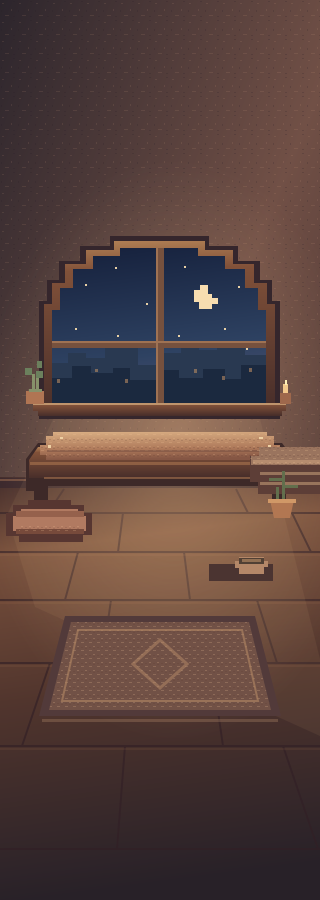
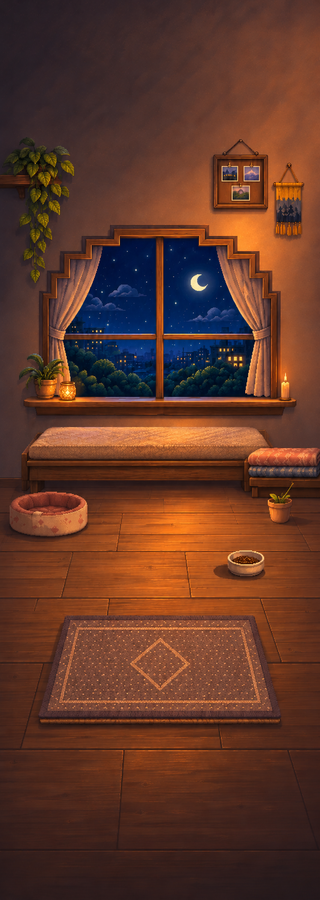
Refine the portrait companion room
Refs #79

diff --git a/src/game/CatRoomScene.ts b/src/game/CatRoomScene.ts
@@ -1464,7 +1464,7 @@ export class CatRoomScene extends Phaser.Scene {
 
   private createPlantLeaf() {
     this.plantLeaf = this.add
-      .image(this.portrait ? 568 : PLANT_LEAF_PIVOT_X, this.portrait ? 211 : PLANT_LEAF_PIVOT_Y, "window-room-plant-leaf")
+      .image(this.portrait ? 586 : PLANT_LEAF_PIVOT_X, this.portrait ? 213 : PLANT_LEAF_PIVOT_Y, "window-room-plant-leaf")
       .setOrigin(43 / 47, 15 / 24)
       .setScale(this.portrait ? PORTRAIT_WORLD_SCALE_X : 1, 1)
       .setDepth(6);

diff --git a/artifacts/art/sources/portrait-room-v2.md b/artifacts/art/sources/portrait-room-v2.md
@@ -1,0 +1,15 @@
+# Portrait window room v2
+
+Generated on 2026-11-09 with built-in ImageGen in the project owner's Codex workspace. The tool did not expose a per-generation model version.
+
[1 lines of base64/hex data omitted]
+
+Walter accepted the revised artwork for internal use on 2026-11-10 after reviewing the 390 × 844 browser capture. The project-wide distribution review in Issue #61 is pending.
+
+## First pass
+
+Use case: style-transfer. Deliver one opaque portrait background plate for an existing mobile companion app. Reference 1 (portrait) is the exact layout and geometry to paint over. Reference 2 (wide) is the finished original art; bring its hand-crafted, detailed pixel art, material rendering, and warm light into every region of the portrait. Treat this as the same room seen in a deliberately composed portrait frame. Preserve the first reference's very tall 320:900 aspect ratio, entire composition, camera, and precise locations, silhouettes, widths and heights of the arched window, window sill, full bench seat surface and front, shallow round cat bed at left, folded blanket ledge at right, small plant near the blanket, bowl on the floor and rug. No stretching of wide reference. Paint directly over the vertical reference with no overall reframing or zoom. Layout checkpoints as fractions of the whole canvas: window arch starts at y26%, sill y45–46%, bench seat y48–51% at x12–87%, front y51–54%, right blanket ledge y50–55% at x78–100% with an unobstructed flat top, cat bed y55–60% at x2–28% with a low rounded rim; plant pot at y56–58% x85–92%; small bowl at y62–64% x73–84%; rug y69–80%. These positions are fixed because a separate animated cat sits and walks exactly on those surfaces. Match the wide reference's small crisp pixel clusters, color transitions built with pixels, dark blue starry night with distant warm windows and trees, golden light falloff, textured wood floor with staggered boards, softly woven fabrics, fabric folds and cast shadows, tiny woven seams, lovely wood grain, quiet shadow details at the side. You may dress the high blank wall gently with soft warm side light and a tiny framed ornament, and add tied-back cloth at the edges of the window while preserving window size and view. Keep center seat and floor free of objects, quiet contrast where the sprite overlays, top of bed and blanket unobstructed. Allow clear floor on both bottom corners for icons. Palette of rich warm browns and muted amber with deep cool blues, same original spirit. Retain fine manual pixel marks across the scene, including the upper wall, with no flat placeholder shapes, no perspective jump, no vector outlines or heavy black contour. No cat, no people, no letters, no type, no icons, no UI, no border, no duplicated panels.
+
+## Blanket and plant revision
+
+Use case: precise-object-edit. Make a tiny production revision of this exact tall 320:900 pixel-art background (the only input, edit target). Keep the entire framing and the detailed finish of the image absolutely stable, including the textured wall, pictures, amber and blue lighting, window, bench, bowl, rug and floor. Change only the folded blanket stack to the right of the bench and the plant directly beneath it, because an animated cat sits on the top of the blanket stack. In the image provided, the blanket stack top is too high by 1.8% of the canvas height. Keep the stack's bottom exactly where it already is. Replace it with two lower, evenly folded textiles with the same coral and dark blue color, texture, and lighting. Position the top surface at y50.6%–51.6% of the full image height (level with the bottom/front edge of the window bench cushion, about 1.8% lower than the current top surface); put the front fold seam at y51.6% and start the blanket surface a little to the left, at x75% of the image, continuing to the right edge. Keep it readable as a flat resting surface at that y-position. Plant immediately below blanket: keep its pot in exactly the same location and size, but replace purple flowers with just a few restrained warm olive-green small leaves and a distinct stem angled slightly to the right toward x88.75%, y53.45% of the full image. Do not draw a leaf at this tip (a separate large animated leaf attaches there and extends left, in the app). Keep empty dark negative space from x75% to x88% at y53% for that leaf. These are the only changes. Preserve the cat bed, all edges and sizes, and the full uncropped exceptionally tall portrait canvas. No cat, UI, words or guidance markings.

diff --git a/docs/art/rights-and-provenance.md b/docs/art/rights-and-provenance.md
@@ -16,7 +16,7 @@ not proof of production rights.
 | Runtime group | Technical source | Provider/model | License or terms evidence | Allowed use |
 | --- | --- | --- | --- | --- |
 | Window-room background and foreground layers | `artifacts/art/sources/` plus local composition scripts | Codex built-in ImageGen; contemporaneous docs archived 2026-07-10 identify `gpt-image-2` (record below) | Recorded below; immutable terms snapshot archived 2026-08-23 (see Rights snapshots) | Rights lineage recorded; public use gated on the Issue #61 rights-gate closure |
-| Portrait window-room background | `artifacts/art/sources/portrait-room-v1.svg`, rasterized to the runtime PNG on 2026-11-08 | Codex-authored vector geometry based on the owner-approved Issue #79 layout | Editable source contains the full artwork and uses no linked images, fonts, or third-party artwork. The separate leaf and cat sprites retain their recorded sources. | Internal review pending visual acceptance and the Issue #61 rights-gate closure |
+| Portrait window-room background | `artifacts/art/sources/portrait-room-v2.png`, resized to the runtime PNG | Codex built-in ImageGen on 2026-11-09. Per-generation model version unavailable. | The generation references were the project’s own landscape room and the rasterized Issue #79 layout. See the [source record](../../artifacts/art/sources/portrait-room-v2.md). | Artwork accepted for internal review on 2026-11-10. Public distribution requires Issue #61 closure. |
 | Plant interaction leaf | `artifacts/art/sources/plant-interaction-v1/` plus `scripts/derive_plant_interaction_assets.py` | Codex built-in ImageGen; contemporaneous docs archived 2026-08-12/14 identify `gpt-image-2` (record below) | Recorded below; immutable terms snapshot archived 2026-08-23 (see Rights snapshots) | Rights lineage recorded; public use gated on the Issue #61 rights-gate closure |
 | Deterministic coat derivatives (solid black, solid white, calico, tuxedo) | `public/assets/scenes/window-room/cat/solid-black/` etc., built by `scripts/build_cat_coat_presets.py` from the gray-white master | No new generation — deterministic per-pixel recolor of recorded upstream sources (record below) | Recorded below; inherits each upstream component's OpenAI terms coverage and the immutable archived snapshot | Rights lineage complete; public use gated on the Issue #60 review pass and Issue #61 rights-gate closure |
 | Remaining cat action sheets outside the records below | Internal orange-tabby appearance-preview sheets listed in `runtime-map.md` | Independent internal preview; release-grade replacement owned by Issues #23/#56 | Not cleared for any release use | Internal prototype only |

diff --git a/docs/art/runtime-map.md b/docs/art/runtime-map.md
@@ -22,7 +22,7 @@ The six coat preset directories are `gray-white-tabby`, `orange-tabby`,
 | Runtime asset | Current source | Status |
 | --- | --- | --- |
 | `background.png` | `artifacts/art/sources/plant-interaction-v1/background-before-leaf-split.png` via `scripts/derive_plant_interaction_assets.py` | Local repair under the split leaf; room composition otherwise unchanged. |
-| `portrait.png` | `artifacts/art/sources/portrait-room-v1.svg`, rasterized at 320 × 900 | Phone composition for internal review under Issue #79. Cat sprites and the split plant leaf use their existing sources. |
+| `portrait.png` | `artifacts/art/sources/portrait-room-v2.png`, resized to 320 × 900 with Sharp (Lanczos3) | Phone art for internal review under Issues #77 and #79. The separate leaf uses a portrait-specific pivot at the painted stem. |
 | `plant-leaf.png` | `artifacts/art/sources/plant-interaction-v1/generated-leaf-alpha.png` via `scripts/derive_plant_interaction_assets.py` | `47x24` transparent internal-prototype prop with a fixed Phaser pivot. |
 
 ## Motion Master
@@ -70,12 +70,15 @@ first-release profile rejects it.
   must pass before the other scenes run. Schema 3 records each shot's actual
   canvas bounds for both capture-time and saved-evidence checks.
 
-The Issue #79 runtime evidence lives under
-`artifacts/art/runtime-review/2026-11-09-mobile-companion/`. Its manifest binds
-the desktop and phone screenshots to the captured source. The phone screenshot
-uses the new portrait room, including the blanket rest surface. The full-motion matrix still uses the landscape
-composition at both viewport widths for comparable action and route evidence.
-Portrait art and real-phone touch remain pending human review.
+The runtime evidence for the revised Issue #79 portrait room is in
+`artifacts/art/runtime-review/2026-11-09-portrait-art/`. Its manifest binds the
+desktop and phone screenshots to the captured source. The phone shots show the
+cat sitting on the floor and resting on the folded blanket. Walter accepted the
+revised artwork on 2026-11-10. Physical-phone touch remains pending.
+
+The prior `2026-11-09-mobile-companion/` set records the first portrait artwork.
+The full-motion matrix uses the landscape composition at both viewport widths
+for comparable action and route evidence.
 
 The previous `artifacts/art/runtime-review/2026-11-08/` set is structural
 evidence for the landscape review baseline, before the portrait layout.

diff --git a/docs/status/current.md b/docs/status/current.md
@@ -2,7 +2,7 @@
 
 **Status:** Living implementation ledger
 
-**Last aligned:** 2026-11-09
+**Last aligned:** 2026-11-17
 
 This is the only document that should summarize mutable project-wide
 implementation status. Specs define contracts; the art runtime map owns exact
@@ -28,8 +28,9 @@ own composition.
 Walter confirmed the phone layout in the 390 × 844 prototype on 2026-11-08,
 after the earlier portrait extension was retired. The implementation follows
 [the approved layout spec](https://github.com/meetwk0916/CatStar/issues/79).
-The portrait artwork and physical-phone touch experience still need human
-review under [the experience implementation ticket](https://github.com/meetwk0916/CatStar/issues/77).
+Walter accepted the revised portrait artwork on 2026-11-10 after reviewing
+the 390 × 844 browser capture. Safe areas and touch on a physical phone
+remain to be checked under [the experience implementation ticket](https://github.com/meetwk0916/CatStar/issues/77).
 
 ## Current release and hosting state
 
@@ -189,8 +190,8 @@ hashes or branch information to this file.
 
 ## Remaining work
 
-- Review the portrait room artwork and physical-phone touch experience against
-  the approved 390 × 844 composition.
+- Verify browser safe areas and cat, mailbox, and passport touch targets on
+  a physical phone against the approved 390 × 844 composition.
 - The representative mid-range-phone performance evidence was explicitly
   waived for the first public release on 2026-08-24 and must not be reported as
   passed. ADR-0004 still governs future engine decisions: do not begin a Phaser
